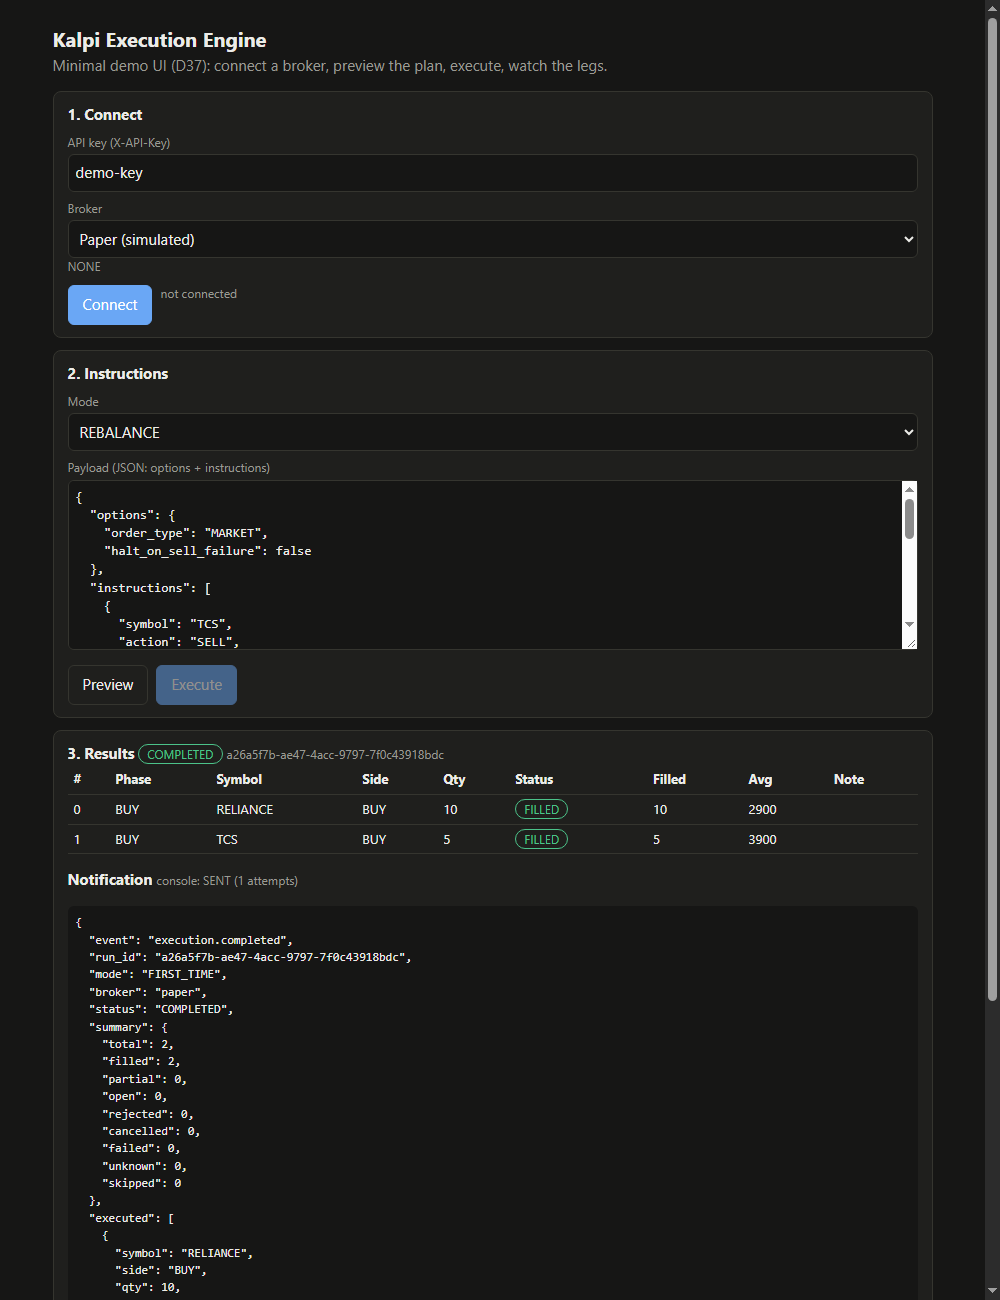
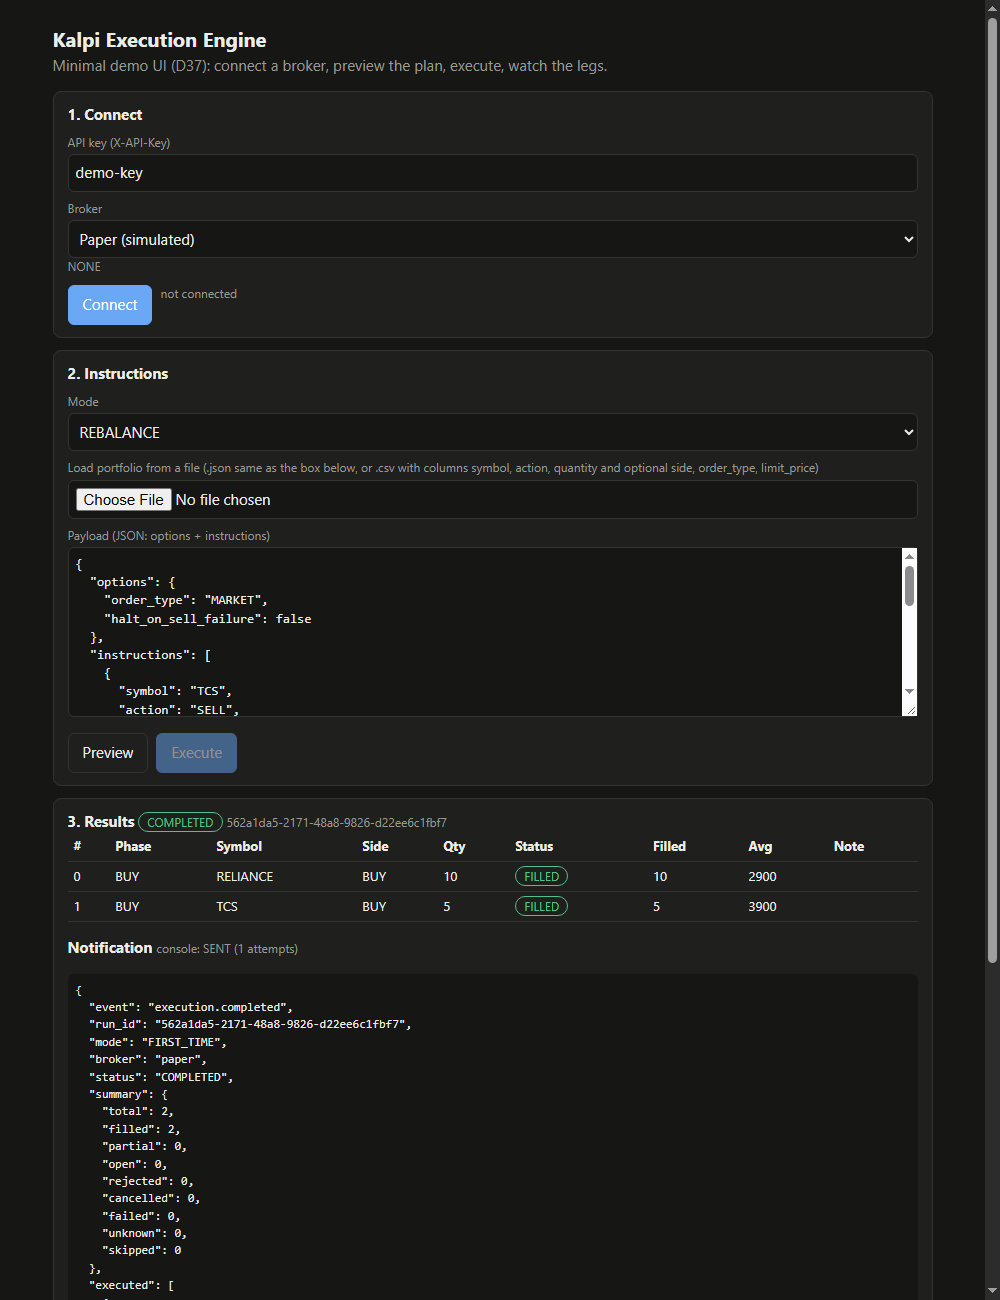
feat(D1): UI file upload (.json/.csv) with samples, node parser tests, smoke on samples

diff --git a/frontend/portfolio.js b/frontend/portfolio.js
@@ -1,0 +1,85 @@
+// Parses an uploaded portfolio file (.json or .csv) into the textarea payload {mode?, options, instructions}.
+// Pure functions, no DOM: loaded by /ui and unit-tested under node. Throws Error with a user-facing message.
+(function (root) {
+  const ACTIONS = ["BUY", "SELL", "REBALANCE"];
+  const REQUIRED = ["symbol", "action", "quantity"];
+  const OPTIONAL = ["side", "order_type", "limit_price"];
+
+  function parseJson(text) {
+    let data;
+    try { data = JSON.parse(text); } catch (e) { throw new Error("Invalid JSON: " + e.message); }
+    if (Array.isArray(data)) data = { instructions: data };
+    if (!data || typeof data !== "object" || !Array.isArray(data.instructions))
+      throw new Error('JSON must be an object with an "instructions" array (same as the payload box).');
+    if (data.instructions.length === 0) throw new Error("The file has no instructions.");
+    return data;
+  }
+
+  function splitCsvLine(line) {
+    const out = []; let cur = "", quoted = false;
+    for (let i = 0; i < line.length; i++) {
+      const c = line[i];
+      if (quoted) { if (c === '"' && line[i + 1] === '"') { cur += '"'; i++; } else if (c === '"') quoted = false; else cur += c; }
+      else if (c === '"') quoted = true;
+      else if (c === ",") { out.push(cur.trim()); cur = ""; }
+      else cur += c;
+    }
+    if (quoted) throw new Error("unterminated quote");
+    out.push(cur.trim());
+    return out;
+  }
+
+  function parseCsv(text) {
+    const lines = text.replace(/^/, "").split(/\r?\n/).map((l, i) => [i + 1, l]).filter(([, l]) => l.trim() !== "");
+    if (lines.length === 0) throw new Error("The CSV file is empty.");
+    const head = splitCsvLine(lines[0][1]).map((h) => h.toLowerCase());
+    const missing = REQUIRED.filter((c) => !head.includes(c));
+    if (missing.length) throw new Error("CSV header must contain: " + REQUIRED.join(", ") + " (missing: " + missing.join(", ") + ").");
+    const unknown = head.filter((h) => !REQUIRED.includes(h) && !OPTIONAL.includes(h));
+    if (unknown.length) throw new Error("Unknown CSV column(s): " + unknown.join(", ") + ". Allowed: " + [...REQUIRED, ...OPTIONAL].join(", ") + ".");
+    if (lines.length === 1) throw new Error("The CSV file has a header but no rows.");
+    const instructions = lines.slice(1).map(([n, line]) => {
+      let cells;
+      try { cells = splitCsvLine(line); } catch (e) { throw new Error("Line " + n + ": " + e.message); }
+      if (cells.length !== head.length) throw new Error("Line " + n + ": expected " + head.length + " columns, found " + cells.length + ".");
+      const row = Object.fromEntries(head.map((h, i) => [h, cells[i]]));
+      const err = (m) => new Error("Line " + n + ": " + m);
+      const action = row.action.toUpperCase();
+      if (!row.symbol) throw err("symbol is empty.");
+      if (!ACTIONS.includes(action)) throw err('action "' + row.action + '" must be BUY, SELL or REBALANCE.');
+      if (!/^[0-9]+$/.test(row.quantity) || Number(row.quantity) < 1) throw err('quantity "' + row.quantity + '" must be a positive whole number.');
+      const ins = { symbol: row.symbol.toUpperCase(), action, quantity: Number(row.quantity) };
+      if (row.side) {
+        const side = row.side.toUpperCase();
+        if (side !== "BUY" && side !== "SELL") throw err('side "' + row.side + '" must be BUY or SELL.');
+        ins.side = side;
+      }
+      if (action === "REBALANCE" && !ins.side) throw err("REBALANCE needs a side (BUY or SELL).");
+      if (row.order_type) {
+        const ot = row.order_type.toUpperCase();
+        if (ot !== "MARKET" && ot !== "LIMIT") throw err('order_type "' + row.order_type + '" must be MARKET or LIMIT.');
+        ins.order_type = ot;
+      }
+      if (row.limit_price) {
+        const p = Number(row.limit_price);
+        if (!Number.isFinite(p) || p <= 0) throw err('limit_price "' + row.limit_price + '" must be a positive number.');
+        ins.limit_price = p;
+      }
+      if (ins.order_type === "LIMIT" && ins.limit_price === undefined) throw err("a LIMIT order needs limit_price.");
+      return ins;
+    });
+    return { options: { order_type: "MARKET" }, instructions };
+  }
+
+  // name decides the format; anything else is rejected with a clear message.
+  function parsePortfolioFile(name, text) {
+    const lower = String(name).toLowerCase();
+    if (lower.endsWith(".json")) return parseJson(text);
+    if (lower.endsWith(".csv")) return parseCsv(text);
+    throw new Error('Unsupported file "' + name + '": choose a .json or .csv file.');
+  }
+
+  const api = { parsePortfolioFile, parseJson, parseCsv };
+  if (typeof module !== "undefined" && module.exports) module.exports = api;
+  else root.PortfolioFile = api;
+})(typeof window !== "undefined" ? window : globalThis);

diff --git a/frontend/index.html b/frontend/index.html
@@ -56,6 +56,9 @@
     <strong>2. Instructions</strong>
     <label for="mode">Mode</label>
     <select id="mode"><option>REBALANCE</option><option>FIRST_TIME</option></select>
+    <label for="file">Load portfolio from a file (.json same as the box below, or .csv with columns
+      symbol, action, quantity and optional side, order_type, limit_price)</label>
+    <input id="file" type="file" accept=".json,.csv,application/json,text/csv">
     <label for="payload">Payload (JSON: options + instructions)</label>
     <textarea id="payload" spellcheck="false"></textarea>
     <div class="row"><button id="preview">Preview</button>
@@ -70,6 +73,7 @@
     <div id="notif"></div>
   </section>
 </main>
+<script src="/ui/portfolio.js"></script>
 <script type="application/json" id="samples">
 {
   "FIRST_TIME": { "options": { "order_type": "MARKET" }, "instructions": [
@@ -125,11 +129,30 @@ function onBroker() {
   $("creds").innerHTML = b.auth_mode === "OAUTH_REDIRECT" ? '<div class="muted">You will be redirected to the broker to log in.</div>'
     : (b.credential_fields || []).map((f) => `<label>${esc(f)}</label><input data-cred="${esc(f)}" type="password" autocomplete="off">`).join("");
 }
-function onMode() {
-  $("payload").value = JSON.stringify(SAMPLES[$("mode").value], null, 2);
+function syncPaper() {
   // Paper seeds holdings only for REBALANCE; reconnect so the account matches the mode.
   if (paperMode && paperMode !== $("mode").value) $("connect").click();
 }
+function onMode() {
+  $("payload").value = JSON.stringify(SAMPLES[$("mode").value], null, 2);
+  syncPaper();
+}
+$("file").onchange = async (ev) => {
+  const f = ev.target.files[0];
+  if (!f) return;
+  $("msg").textContent = ""; $("plan").innerHTML = ""; previewOk = false; $("execute").disabled = true;
+  try {
+    const { mode, ...payload } = PortfolioFile.parsePortfolioFile(f.name, await f.text());
+    $("payload").value = JSON.stringify(payload, null, 2);
+    if (mode) {
+      if (!["FIRST_TIME", "REBALANCE"].includes(mode)) throw new Error('"mode" must be FIRST_TIME or REBALANCE.');
+      $("mode").value = mode; syncPaper();
+    }
+    $("msg").innerHTML = `<div class="muted">Loaded ${payload.instructions.length} instructions from ${esc(f.name)}. Review, then Preview.</div>`;
+  } catch (e) {
+    $("msg").innerHTML = `<p class="err">Could not load ${esc(f.name)}: ${esc(e.message)}</p>`;
+  } finally { ev.target.value = ""; }  // allow choosing the same file again
+};
 $("broker").onchange = onBroker; $("mode").onchange = onMode;
 
 $("connect").onclick = async () => {

diff --git a/tests/unit/test_ui_upload.py b/tests/unit/test_ui_upload.py
@@ -1,0 +1,99 @@
+# ruff: noqa: F811  (pytest fixtures imported from test_api and used by name)
+"""File upload in the UI: the real browser parser (frontend/portfolio.js) run under node."""
+
+import json
+import shutil
+import subprocess
+from pathlib import Path
+from typing import Any
+
+import pytest
+from fastapi.testclient import TestClient
+
+from tests.unit.test_api import H, client, paper_session, reg, settings  # noqa: F401
+
+ROOT = Path(__file__).resolve().parents[2]
+SAMPLES = ROOT / "docs" / "samples"
+NODE = shutil.which("node")
+needs_node = pytest.mark.skipif(NODE is None, reason="node not installed")
+DRIVER = (
+    "const P=require(process.argv[1]);const [n,t]=JSON.parse(require('fs').readFileSync(0,'utf8'));"
+    "try{console.log(JSON.stringify({ok:P.parsePortfolioFile(n,t)}))}"
+    "catch(e){console.log(JSON.stringify({err:e.message}))}"
+)
+
+
+def parse(name: str, text: str) -> dict[str, Any]:
+    assert NODE
+    out = subprocess.run(
+        [NODE, "-e", DRIVER, str(ROOT / "frontend" / "portfolio.js")],
+        input=json.dumps([name, text]), capture_output=True, text=True, check=True, timeout=30,
+    )  # fmt: skip
+    result: dict[str, Any] = json.loads(out.stdout)
+    return result
+
+
+def sample(name: str) -> str:
+    return (SAMPLES / name).read_text(encoding="utf-8")
+
+
+@needs_node
+def test_sample_json_and_csv_parse_to_the_same_instructions() -> None:
+    j = parse("rebalance.json", sample("rebalance.json"))["ok"]
+    c = parse("rebalance.csv", sample("rebalance.csv"))["ok"]
+    assert j["mode"] == "REBALANCE" and len(j["instructions"]) == 3
+    assert c["instructions"] == j["instructions"]
+    assert c["options"]["order_type"] == "MARKET"
+
+
+@needs_node
+@pytest.mark.parametrize(
+    ("name", "text", "expect"),
+    [
+        ("p.json", "{not json", "Invalid JSON"),
+        ("p.json", '{"options": {}}', '"instructions" array'),
+        ("p.json", '{"instructions": []}', "no instructions"),
+        ("p.csv", "", "empty"),
+        ("p.csv", "symbol,action\nTCS,BUY", "missing: quantity"),
+        ("p.csv", "symbol,action,quantity,colour\nTCS,BUY,1,red", "Unknown CSV column"),
+        ("p.csv", "symbol,action,quantity\nTCS,HOLD,1", 'Line 2: action "HOLD"'),
+        ("p.csv", "symbol,action,quantity\nTCS,BUY,1.5", "Line 2: quantity"),
+        ("p.csv", "symbol,action,quantity\nTCS,BUY,1\nINFY,SELL,0", "Line 3: quantity"),
+        ("p.csv", "symbol,action,quantity,side\nTCS,REBALANCE,2,", "REBALANCE needs a side"),
+        ("p.csv", "symbol,action,quantity,order_type\nTCS,BUY,2,LIMIT", "needs limit_price"),
+        ("p.csv", "symbol,action,quantity\nTCS,BUY", "expected 3 columns"),
+        ("p.csv", "symbol,action,quantity", "no rows"),
+        ("p.txt", "TCS,BUY,1", "choose a .json or .csv"),
+    ],
+)
+def test_malformed_files_give_a_clear_error(name: str, text: str, expect: str) -> None:
+    assert expect in parse(name, text)["err"]
+
+
+@needs_node
+def test_csv_edge_cases_bom_quotes_blank_lines_case() -> None:
+    text = 'Symbol,Action,Quantity\r\n\r\n"tcs", buy ,"3"\r\n'
+    got = parse("x.CSV", text)["ok"]["instructions"]
+    assert got == [{"symbol": "TCS", "action": "BUY", "quantity": 3}]
+
+
+@needs_node
+@pytest.mark.parametrize("fname", ["rebalance.json", "rebalance.csv"])
+def test_parsed_sample_previews_on_paper(client: TestClient, fname: str) -> None:
+    parsed = parse(fname, sample(fname))["ok"]
+    sid = paper_session(client, {"TCS": 5, "INFY": 8})
+    payload = {k: v for k, v in parsed.items() if k != "mode"}
+    body = {"session_id": sid, "mode": "REBALANCE", **payload}
+    r = client.post("/v1/executions/preview", json=body, headers=H)
+    assert r.status_code == 200, r.text
+    assert [(leg["phase"], leg["symbol"]) for leg in r.json()["legs"]] == [
+        ("SELL", "TCS"), ("BUY", "INFY"), ("BUY", "HDFCBANK"),
+    ]  # fmt: skip
+
+
+def test_ui_serves_file_input_and_parser(client: TestClient) -> None:
+    page = client.get("/ui")
+    assert 'id="file"' in page.text and ".json" in page.text and ".csv" in page.text
+    js = client.get("/ui/portfolio.js")
+    assert js.status_code == 200 and "text/javascript" in js.headers["content-type"]
+    assert "parsePortfolioFile" in js.text

diff --git a/scripts/ui_smoke.py b/scripts/ui_smoke.py
@@ -40,27 +40,50 @@ def check(cond: bool, msg: str) -> None:
         raise SystemExit(1)
 
 
-def run_flow(c: httpx.Client, mode: str, profile: str | None, payload: dict) -> str:
+def run_flow(
+    c: httpx.Client, mode: str, profile: str | None, payload: dict, label: str | None = None
+) -> str:
+    name = label or mode
     creds = {"profile": profile} if profile else {}
     r = c.post("/v1/sessions", json={"broker": "paper", "credentials": creds})
-    check(r.status_code == 200, f"{mode}: connect -> session")
+    check(r.status_code == 200, f"{name}: connect -> session")
     body = {"session_id": r.json()["session_id"], "mode": mode, **payload}
     r = c.post("/v1/executions/preview", json=body)
     legs = r.json()["legs"] if r.status_code == 200 else []
-    check(bool(legs), f"{mode}: preview {len(legs)} legs")
+    check(bool(legs), f"{name}: preview {len(legs)} legs")
     r = c.post("/v1/executions", json=body, headers={"Idempotency-Key": str(uuid.uuid4())})
-    check(r.status_code == 202, f"{mode}: execute 202")
+    check(r.status_code == 202, f"{name}: execute 202")
     run_id = r.json()["run_id"]
     for _ in range(120):
         run = c.get(f"/v1/executions/{run_id}").json()
         if run["status"] in ("COMPLETED", "COMPLETED_WITH_FAILURES", "FAILED"):
             break
         time.sleep(0.5)
-    check(run["status"] == "COMPLETED", f"{mode}: run {run['status']} ({len(run['legs'])} legs)")
+    check(run["status"] == "COMPLETED", f"{name}: run {run['status']} ({len(run['legs'])} legs)")
     notes = run["notifications"]
-    check(bool(notes) and notes[-1]["payload"].get("run_id") == run_id, f"{mode}: payload shown")
-    check(all(leg["status"] == "FILLED" for leg in run["legs"]), f"{mode}: all legs FILLED")
+    check(bool(notes) and notes[-1]["payload"].get("run_id") == run_id, f"{name}: payload shown")
+    check(all(leg["status"] == "FILLED" for leg in run["legs"]), f"{name}: all legs FILLED")
     return str(run_id)
+
+
+def parse_sample(path: Path) -> dict | None:
+    """Parse a docs/samples file with the UI's own parser (frontend/portfolio.js) under node."""
+    node = shutil.which("node")
+    if not node:
+        return None
+    driver = (
+        "const P=require(process.argv[1]);"
+        "const [n,t]=JSON.parse(require('fs').readFileSync(0,'utf8'));"
+        "console.log(JSON.stringify(P.parsePortfolioFile(n,t)))"
+    )
+    out = subprocess.run(
+        [node, "-e", driver, str(ROOT / "frontend" / "portfolio.js")],
+        input=json.dumps([path.name, path.read_text(encoding="utf-8")]),
+        capture_output=True, text=True, check=True, timeout=30,
+    )  # fmt: skip
+    parsed: dict = json.loads(out.stdout)
+    parsed.pop("mode", None)
+    return parsed
 
 
 def screenshot(browser: str, url: str, out: Path) -> None:
@@ -105,6 +128,14 @@ def main() -> int:
             first, rebal = samples["FIRST_TIME"], samples["REBALANCE"]
             first_run = run_flow(c, "FIRST_TIME", None, first)
             rebal_run = run_flow(c, "REBALANCE", "demo", rebal)
+            check(c.get("/ui/portfolio.js").status_code == 200, "GET /ui/portfolio.js 200")
+            check('id="file"' in html, '/ui contains id="file" (upload)')
+            for sample in ("rebalance.json", "rebalance.csv"):
+                payload = parse_sample(ROOT / "docs" / "samples" / sample)
+                if payload is None:
+                    print(f"skip upload sample {sample}: node not installed")
+                    continue
+                run_flow(c, "REBALANCE", "demo", payload, label=f"upload {sample}")
         browser = next((b for b in map(shutil.which, BROWSERS) if b), None) or next(
             (b for b in BROWSERS if Path(b).is_file()), None
         )

diff --git a/src/kalpi_engine/api/ui.py b/src/kalpi_engine/api/ui.py
@@ -13,9 +13,19 @@ _CANDIDATES = (
 )
 
 
+def _serve(name: str, media_type: str) -> Response:
+    for d in _CANDIDATES:
+        if (d / name).is_file():
+            return FileResponse(d / name, media_type=media_type)
+    return HTMLResponse(f"UI file not found (frontend/{name})", status_code=404)
+
+
 @router.get("/ui")
 async def ui() -> Response:
-    for d in _CANDIDATES:
-        if (d / "index.html").is_file():
-            return FileResponse(d / "index.html", media_type="text/html")
-    return HTMLResponse("UI not found (frontend/index.html)", status_code=404)
+    return _serve("index.html", "text/html")
+
+
+@router.get("/ui/portfolio.js")
+async def portfolio_js() -> Response:
+    """File-upload parser (.json / .csv); a separate file so node can unit-test it."""
+    return _serve("portfolio.js", "text/javascript")

diff --git a/README.md b/README.md
@@ -23,7 +23,12 @@ docker compose up --build -d      # drop -d to watch the logs
 curl localhost:8000/healthz       # {"status":"ok"}
 ```
 
-Then open <http://localhost:8000/ui> (API key box: `change-me-demo-key`, broker: Paper).
+Then open <http://localhost:8000/ui> (API key box: `change-me-demo-key`, broker: Paper). To try
+the file upload, pick [`docs/samples/rebalance.json`](docs/samples/rebalance.json) or
+[`docs/samples/rebalance.csv`](docs/samples/rebalance.csv) with "Load portfolio from a file", then
+Preview. JSON is the same payload as the box (`options` + `instructions`, optional `mode`); CSV has
+columns `symbol, action, quantity` and optional `side, order_type, limit_price`. A malformed file
+shows an error naming the line and leaves the box unchanged.
 API docs: <http://localhost:8000/docs>. Without a `.env` the API and UI answer 401/503.
 `docker compose down` stops it; `down -v` also deletes the Postgres volume.
 
@@ -154,7 +159,7 @@ need broker empanelment; that is outside this code. Details and sources: `docs/B
 
 ## What is tested vs mocked
 
-- **Tested (373 tests, `make check`):** planner (100% coverage), executor and fault injection on
+- **Tested (392 tests, `make check`):** planner (100% coverage), executor and fault injection on
   Paper (20 seeded chaos runs: at most one order per tag, sells before buys, no stuck legs; 5
   restart-mid-run seeds), idempotency, token encryption / no secrets in DB or logs, webhook signing
   and delivery, API envelopes, JSON logs with `run_id` and redaction, `/readyz`.
@@ -188,8 +193,11 @@ Full list with reasons: [`docs/LIMITATIONS.md`](docs/LIMITATIONS.md). In short:
   (`--workers 1`); crash safety comes from the DB lease, not from multiple workers.
 - The instrument master is loaded once at startup (refresh = restart).
 - Adaptive concurrency halving after repeated 429 is not implemented (fixed bounded concurrency).
-- The UI is deliberately minimal: broker select, JSON textarea, Connect / Preview / Execute and
-  live leg status. **No file upload** and no per-broker generated forms.
+- The UI is deliberately minimal: broker select, file upload (.json / .csv, parsed in the
+  browser into the payload box), Connect / Preview / Execute and live leg status. No per-broker
+  generated forms. The parser is unit-tested under node (skipped if node is absent) and the
+  sample files are driven through the API by `ui_smoke.py`; the browser's file-picker click itself
+  is not automated (checked by hand only).
 - `GET /v1/brokers` is public (metadata only). First run needs `.env` (see Quick start).
 
 ## Requirements checklist
@@ -205,6 +213,6 @@ Full list with reasons: [`docs/LIMITATIONS.md`](docs/LIMITATIONS.md). In short:
 | R7 | Python + FastAPI | `src/kalpi_engine/main.py`, `api/` |
 | R8 | Docker | `Dockerfile`, `docker-compose.yml` (app + Postgres); `make itest`, `scripts/demo.sh` |
 | R9 | Modularity, rate limits, failed trades | layering above; `execution/limits.py` (sliding-window limiter, `Retry-After`, RETRY_SAFE-only retry); write-ahead + tag reconciliation + lease; chaos tests. Gap: adaptive concurrency halving not built |
-| R10 | Bonus frontend | `frontend/index.html` at `/ui` (minimal, no file upload); `scripts/ui_smoke.py`, `docs/img/`; manual click-through on Paper |
+| R10 | Bonus frontend | `frontend/index.html` + `frontend/portfolio.js` at `/ui` (minimal; .json/.csv upload); `tests/unit/test_ui_upload.py`, `scripts/ui_smoke.py`, `docs/img/`; manual click-through on Paper |
 | R11 | Public repo + README | this file; the GitHub repo must be set to **public** before submission (it is currently private) |
 | R12 | Within 24h | tracked in `docs/progress.md` / git history; judged by the submitter |

diff --git a/docs/ASSIGNMENT.md b/docs/ASSIGNMENT.md
@@ -19,7 +19,7 @@ Take a desired portfolio instruction set, authenticate with the user's broker, e
 | R7 | Backend: **Python + FastAPI** | `src/kalpi_engine/main.py`, `api/` (FastAPI, async). |
 | R8 | **Docker**: Dockerfile + docker-compose.yml | `Dockerfile`, `docker-compose.yml` (app + Postgres); `make itest` (3 passed) and `scripts/demo.sh` exit 0 on the compose stack. |
 | R9 | Best practices for trading systems: modularity, separation of concerns, **robust handling of API rate limits and failed trades** | Layered modules (README); `execution/limits.py` sliding-window limiter + `Retry-After` + RETRY_SAFE-only retry; write-ahead legs, tag reconciliation, run lease; chaos tests. Gap: adaptive concurrency halving (B8) not built. |
-| R10 | Bonus: basic **frontend** (upload target portfolio -> connect broker -> click execute -> view results) | `frontend/index.html` at `/ui` (minimal: JSON textarea, no file upload); `scripts/ui_smoke.py`, `docs/img/`; manual Chrome click-through on Paper reported by the owner (G3). |
+| R10 | Bonus: basic **frontend** (upload target portfolio -> connect broker -> click execute -> view results) | `frontend/index.html` at `/ui` (minimal: file upload .json/.csv + JSON box, parsed in `frontend/portfolio.js`); `tests/unit/test_ui_upload.py`, `scripts/ui_smoke.py` (uploads docs/samples/*), `docs/img/`; manual Chrome click-through on Paper reported by the owner (G3). |
 | R11 | Public GitHub repo; **README** with: setup + Docker commands; architecture choices + how rebalance logic works; justification of 3rd-party trading libs | `README.md` (setup + Docker, architecture, rebalance logic, library justification). GitHub repo is currently PRIVATE: must be made public before submission. |
 | R12 | Delivered within 24h | Pace tracked in `docs/progress.md` / git history; judged by the submitter at release (G4). |
 
